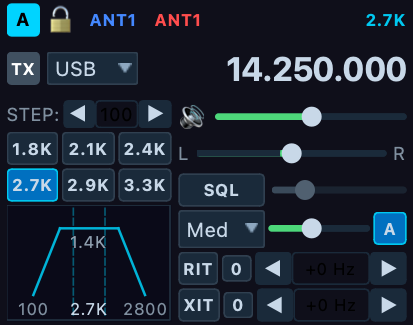
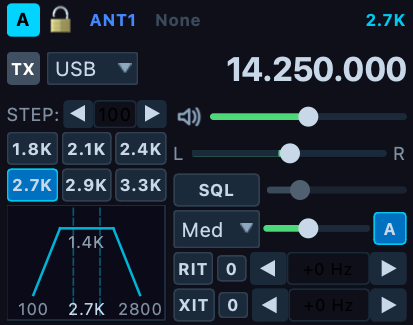
Fix compact RX preset sizing on Linux. Principle XI. (#6643)
## Summary

Fixes #6641. Related to #6508, #6564 and #6637.

With DejaVu Sans on Linux, the three RX preset columns need 103 px. The
136 px AGC row, 4 px column gap and 8 px margins bring the applet
minimum to 251 px inside a 248 px dock. The existing GUI test correctly
catches the clipped right edge.

Reduce only the presets' horizontal padding from 2 px to 1 px. The dock
width, AGC selector, Auto button and slider minimum retain their sizes.
Add system/DejaVu Sans/Liberation Sans cases that check width, control
containment, label fit and a slider at least 60 px wide. Refresh the RX
guide's HiDPI screenshot.

## Constitution principle honored

Principle XI — the new font cases fail against the original layout and
pass with the fix, using the real production widgets and agent
automation dispatcher.

## Validation

- **Linux, Debian 13 ARM64 / Qt 6.12:** unchanged main reproduces **251
actual / 248 expected** (13 QtTest cases pass, 1 fails). New cases on
unchanged production code fail for system/DejaVu Sans and pass for
Liberation Sans. With the fix, Auto AGC-T GUI and RX squelch
reconciliation CTests both pass at DPR 1.6667 (7.18 s). The entire GUI
test also passes at normal DPR: **17 passed, 0 failed**.
- Linux bridge capture: **251 → 248 px applet; 60 → 63 px slider**. The
fixed font cases verify that preset text and all visible children fit.
Runtime/test source hashes match the signed fix.
- Linux configuration: RADE enabled; C++ `-O0 -g1 -DNDEBUG`. Object
[…]

diff --git a/tests/auto_agc_threshold_gui_test.cpp b/tests/auto_agc_threshold_gui_test.cpp
@@ -23,6 +23,9 @@
 #include <QDir>
 #include <QEventLoop>
 #include <QFile>
+#include <QFont>
+#include <QFontDatabase>
+#include <QFontMetrics>
 #include <QImage>
 #include <QJsonArray>
 #include <QJsonDocument>
@@ -30,9 +33,14 @@
 #include <QJsonValue>
 #include <QLabel>
 #include <QPointer>
+#include <QPoint>
 #include <QPalette>
 #include <QPushButton>
+#include <QRect>
+#include <QScopeGuard>
 #include <QSlider>
+#include <QStyle>
+#include <QStyleOptionButton>
 #include <QStringList>
 #include <QVector>
 #include <QtTest>
@@ -323,6 +331,70 @@ private slots:
     {
         QVERIFY2(QFile::exists(QStringLiteral(":/themes/default-dark.json")),
             "Link THEME_TEST_RESOURCES so screenshots use the production theme resources");
+    }
+
+    void compactLayoutFitsDock_data()
+    {
+        QTest::addColumn<QString>("fontFamily");
+        // DejaVu Sans is the row that needs the compact preset padding (#6641);
+        // a host without it runs only rows that already fit.
+        QTest::newRow("system") << QString();
+        const QStringList families = QFontDatabase::families();
+        for (const QString& family : {QStringLiteral("DejaVu Sans"),
+                                      QStringLiteral("Liberation Sans")}) {
+            if (families.contains(family)) {
+                QTest::newRow(qPrintable(family)) << family;
+            }
+        }
+    }
+
+    void compactLayoutFitsDock()
+    {
+        QFETCH(QString, fontFamily);
+        const QFont defaultFont = QApplication::font();
+        const auto restoreFont = qScopeGuard([defaultFont] {
+            QApplication::setFont(defaultFont);
+        });
+        if (!fontFamily.isEmpty()) {
+            QFont font = defaultFont;
+            font.setFamily(fontFamily);
+            QApplication::setFont(font);
+        }
+
+        Fixture fixture;
+        QVERIFY(fixture.capture(QStringLiteral("compact-layout-")
+            + (fontFamily.isEmpty() ? QStringLiteral("system") : fontFamily)));
+        QCOMPARE(fixture.rx.width(), 248);
+        QVERIFY(fixture.rx.minimumSizeHint().width() <= 248);
+        QVERIFY(fixture.threshold());
+        QVERIFY(fixture.threshold()->width() >= 60);
+        for (QWidget* widget : fixture.rx.findChildren<QWidget*>()) {
+            if (widget->isVisibleTo(&fixture.rx) && !widget->isWindow()) {
+                const QRect bounds(widget->mapTo(&fixture.rx, QPoint()), widget->size());
+                QVERIFY2(fixture.rx.rect().contains(bounds),
+                    qPrintable(widget->accessibleName().isEmpty()
+                        ? QString::fromLatin1(widget->metaObject()->className())
+                        : widget->accessibleName()));
+            }
+        }
+
+        const QStringList presets{QStringLiteral("1.8K"), QStringLiteral("2.1K"),
+            QStringLiteral("2.4K"), QStringLiteral("2.7K"),
+            QStringLiteral("2.9K"), QStringLiteral("3.3K")};
+        int presetCount = 0;
+        for (QPushButton* button : fixture.rx.findChildren<QPushButton*>()) {
+            if (presets.contains(button->text())) {
+                ++presetCount;
+                QVERIFY(button->isVisibleTo(&fixture.rx));
+                QStyleOptionButton option;
+                option.initFrom(button);
+                const QRect contents = button->style()->subElementRect(
+                    QStyle::SE_PushButtonContents, &option, button);
+                QVERIFY(button->fontMetrics().horizontalAdvance(button->text())
+                    <= contents.width());
+            }
+        }
+        QCOMPARE(presetCount, 6);
     }
 
     void bridgeClickWaitsForConfirmedStatus()

diff --git a/src/gui/RxApplet.cpp b/src/gui/RxApplet.cpp
@@ -3548,7 +3548,10 @@ void RxApplet::rebuildFilterButtons()
             btn->setAccessibleName(QStringLiteral("Receive filter %1")
                                        .arg(preset.label));
         }
-        btn->setStyleSheet(kButtonBase() + kBlueActive());
+        // Three preset columns must leave room for the 60 px AGC slider
+        // and Auto button within the dock's 248 px viewport.
+        btn->setStyleSheet(kButtonBase() + kBlueActive()
+            + QStringLiteral("QPushButton { padding: 1px; }"));
         connect(btn, &QPushButton::clicked, this,
                 [this, i, customisable, stablePresets, preset](bool) {
             if (!m_slice) {
